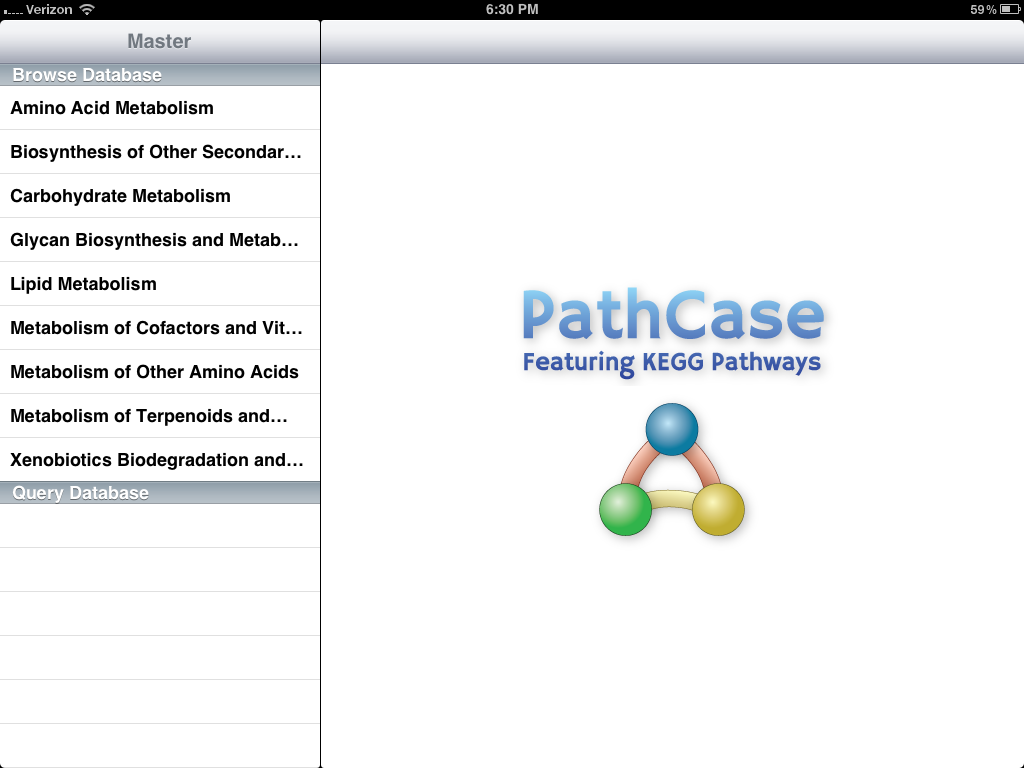
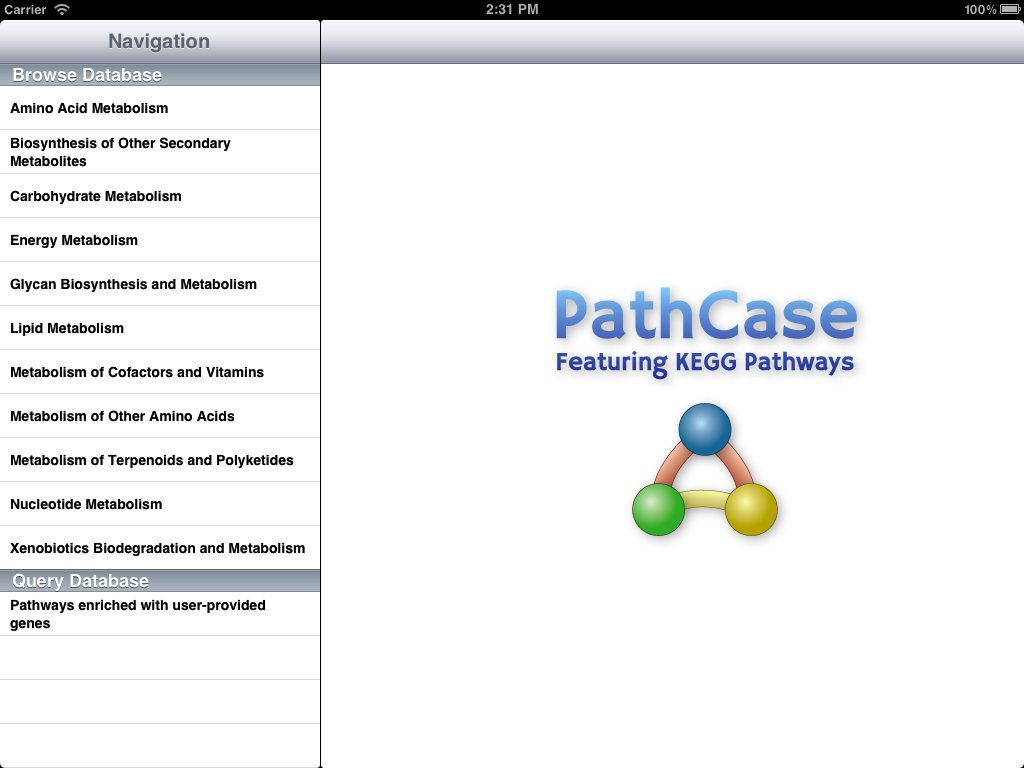
KEGG interface

diff --git a/kegg/interface.tex b/kegg/interface.tex
@@ -3,30 +3,99 @@
 
 \begin{figure}
     \center{
-        \includegraphics[width=\columnwidth]{kegg/figures/screenshot_list}}
-    \caption{\label{fig:kegg_screenshot_list} List of pathways on the main screen
-    of PathCase KEGG for iPad}
+        \includegraphics[width=3in]{kegg/figures/screenshot_list}}
+    \caption{\label{fig:kegg_screenshot_list} List of pathway categories on
+    the main screen of the KEGG app}
 \end{figure}
 
-The home screen of the KEGG app displays a list of pathways that the user can
-choose from to view a graph. This screen is shown in figure
-\ref{fig:kegg_screenshot_list}.
+\begin{figure}
+    \center{
+        \includegraphics[width=3in]{kegg/figures/screenshot_sublist}}
+    \caption{\label{fig:kegg_screenshot_sublist} List of pathways in the
+    ``Carbohydrate Metabolism'' category of the KEGG app}
+\end{figure}
+
+The home screen of the KEGG app displays a list of pathway categories. Selecting
+a category takes the user to a list of pathways. These lists are shown in
+figures \ref{fig:kegg_screenshot_pathway} and \ref{fig:kegg_screenshot_sublist}.
 
 After selecting a pathway, the user enters the graph view, where they can pan
-and zoom across a pathway. The view for glycolysis/gluconeogenesis is shown in
-figure \ref{fig:kegg_screenshot_pathway}.
+and zoom across a pathway. The view for the TCA cycle is shown in figure
+\ref{fig:kegg_screenshot_pathway}.
 
 \begin{figure}[hbt]
     \center{
-        \includegraphics[width=\columnwidth]{kegg/figures/screenshot_glycolysis_gluconeogenesis}}
-    \caption{\label{fig:kegg_screenshot_pathway} Scrolling,
-    zooming view of Glycolysis/Gluconeogenesis}
+        \includegraphics[width=3in]{kegg/figures/screenshot_pathway}}
+    \caption{\label{fig:kegg_screenshot_pathway} Scrolling, zooming view of
+    the TCA cycle}
 \end{figure}
 
-One significant difference between the MAW and KEGG apps is that the KEGG app
-displays data from the ENZYME enzyme nomenclature database where possible.  The
-database's data comes from the recommendations of the Nomenclature Committee of
+
+The graph view differs from the MAW app's graph view in several ways. The first
+is the presence of the sidebar, which displays information about the user's
+current selection. If no node is selected, it displays a button to show the KEGG
+database web page for the pathway. (One example page is shown in figure
+\ref{fig:kegg_screenshot_kegg_web_site}.
+
+\begin{figure}[hbt]
+    \center{
+        \includegraphics[width=3in]{kegg/figures/screenshot_kegg_web_site}}
+    \caption{\label{fig:kegg_screenshot_kegg_web_site} KEGG web page for the TCA
+    cycle, displayed by tapping the sidebar button}
+\end{figure}
+
+If the user taps a node, the sidebar shows a longer description of the node.
+This differs from the MAW app behavior of using a popover to display the longer
+description. Figure \ref{fig:kegg_screnshot_selection_no_info}
+
+\begin{figure}[hbt]
+    \center{
+        \includegraphics[width=3in]{kegg/figures/screenshot_selection_no_info}}
+    \caption{\label{fig:kegg_screenshot_selection_no_info} Sidebar showing
+    long description of a node in the KEGG app}
+\end{figure}
+
+The second major difference is the addition of the ``Organisms'' button in the
+upper right corner. This button triggers a popover which allows the user to
+activate and deactivate organisms. If a reaction is not present in any activated
+organism, it is made partially transparent.
+
+The organism hierarchy menu is shown in figure
+\ref{fig:kegg_screenshot_animals_only_list}. The graph view corresponding to the
+selection is shown in figure \ref{fig:kegg_screenshot_animals_only_graph}.
+
+\begin{figure}[hbt]
+    \center{
+        \includegraphics[width=3in]{kegg/figures/screenshot_animals_only_list}}
+    \caption{\label{fig:kegg_screenshot_animals_only_list} Organism hierarchy
+    menu with only Eukaryotes $\rightarrow$ Animals activated}
+\end{figure}
+
+\begin{figure}[hbt]
+    \center{
+        \includegraphics[width=3in]{kegg/figures/screenshot_animals_only_graph}}
+    \caption{\label{fig:kegg_screenshot_animals_only_graph} Graph view with only
+    reactions for Eukaryotes $\rightarrow$ Animals activated}
+\end{figure}
+
+\subsection{ENZYME Database Information}
+
+%screenshot_selection_info.png
+
+In addition to displaying a node's long description from PathCase KEGG, the KEGG
+iPad app uses data from the ENZYME enzyme nomenclature database to show more
+information for reactions for which EC numbers are available.
+
+ENZYME's data comes from the recommendations of the Nomenclature Committee of
 the International Union of Biochemistry and Molecular Biology (IUBMB)
-\cite{enzyme-database}. This data is shown in the sidebar of figure
-\ref{fig:kegg_screenshot_pathway}, including alternate names, catalytic
-activity, cofactors, and more.
+\cite{enzyme-database}. An example of ENZYME information in the sidebar is shown
+in figure \ref{fig:kegg_screenshot_selection_info}, including alternate names,
+catalytic activity, cofactors, and more.
+
+\begin{figure}[hbt]
+    \center{
+        \includegraphics[width=3in]{kegg/figures/screenshot_selection_info}}
+    \caption{\label{fig:kegg_screenshot_selection_info} Sidebar showing
+    information from the ENZYME database for the reaction ``2-oxoglutarate
+    synthase''}
+\end{figure}

diff --git a/kegg/main.tex b/kegg/main.tex
@@ -1,6 +1,10 @@
-The PathCase KEGG database is intended more for students and instructors than
-for researchers. It is updated each year from the official KEGG database
-\cite{enzyme-database} \cite{pathcase-basic}.
+Unlike PathCase MAW, The PathCase KEGG database is intended more for students
+and instructors than for researchers. It is updated each year from the official
+KEGG database \cite{pathcase-basic}.
+
+The iPad app for PathCase KEGG is totally separate from the MAW version. It uses
+a newer Cocoa API, newer language features of Objective-C, and has better
+software architecture.
 
 \input{kegg/interface}
 
